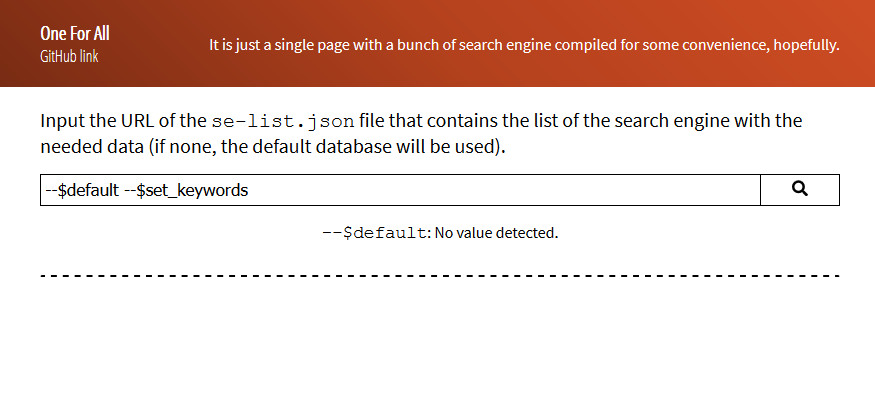
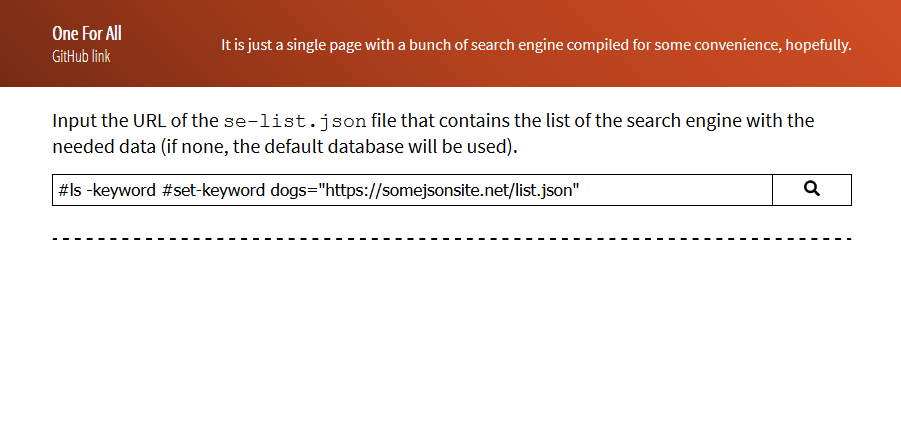
Update the command docs

diff --git a/docs/available-commands.md b/docs/available-commands.md
@@ -3,7 +3,7 @@ You can enter commands in the main input of the page as if you're using a CLI pr
 
 ![Sample of entering commands](assets/page-sample.png)
 
-Take note that valid commands must have `--$` before the main command keyword with their needed values to be separated by whitespaces.
+Take note that valid commands must have `#` before the main command keyword with their needed values to be separated by whitespaces.
 
 Also, each of the command can only be executed once with the values of the first detected valid command.
 
@@ -16,6 +16,7 @@ Aliases:
 - `set-keyword`
 - `set-kw`
 - `set-kws`
+- `set-alias`
 
 Their values need to be a keyword and the URL to be associated with delimited by an equal sign. 
 
@@ -24,13 +25,13 @@ The keyword must have only at least one alphanumeric character. You can also inc
 The URL also needs to be enclosed within quotation marks.
 
 ```
---$set-keywords books="https://jsonsite.com/foo-dogsquared/list/se-list.test.json"
+#set-keywords books="https://jsonsite.com/foo-dogsquared/list/se-list.test.json"
 ```
 
 You can also set multiple keywords at once.
 
 ```
---$set-keywords books="https://jsonsite.com/foo-dogsquared/list/se-list.test.json" moocs="https://moocsite.com/sample-list.json"
+#set-keywords books="https://jsonsite.com/foo-dogsquared/list/se-list.test.json" moocs="https://moocsite.com/sample-list.json"
 ```
 
 Once the keyword has been set, you can simply type the keyword to retrieve the JSON file associated with that keyword.
@@ -40,7 +41,7 @@ Once the keyword has been set, you can simply type the keyword to retrieve the J
 If you want to replace the associated URL of a certain keyword, simply enter the command again with the same keyword:
 
 ```
---$set-keywords books="https://someotherjsonsite.com/testnumbertwo.json"
+#set-keywords books="https://someotherjsonsite.com/testnumbertwo.json"
 ```
 
 ## `remove-keywords`
@@ -48,17 +49,38 @@ Simply removes the keyword in your setting. Disallowing you to retrieve a databa
 
 Aliases:
 - `remove-keyword`
+- `rm-keywords`
+- `rm-keyword`
 - `rm-kws`
 - `rm-kw`
+- `rm-alias`
 
 The needed value is simply either an array of keywords delimited by commas enclosed in square brackets or a bunch of whitespace-separated words, your choice.
 
 ```
---$remove-keywords [books,moocs]
---$remove-keywords books moocs
+#remove-keywords [books,moocs]
+#remove-keywords books moocs
 ```
 
 When you remove a keyword, of course, you can't retrieve a JSON from the associated URL anymore. 
+
+## `show-keywords`
+Simply shows a list of keywords that you've set.
+
+Aliases:
+- `show-keyword`
+- `show-kw`
+- `show-kws`
+- `show-alias`
+- `ls`
+
+It needs no values for it to function. 
+
+You can add the `-keyword` flag in order to show only the keywords without the associated URLs. It's quite useful in case you want a neater view on the list without all the clutter.
+
+You can also view the default database by adding the `-default` flag. Just bear in mind that you can't use two flags at the same time, only the first flag will be recognized.
+
+![rm-kw and ls Usage Example](assets/rm-kw-and-ls-usage-example.gif)
 
 ## `default`
 Sets the default JSON database to be used. The default database (when unset) is simply the `se-list.json` that is included with the repo (hopefully). The default database is also the database to be used when you enter nothing.
@@ -66,7 +88,7 @@ Sets the default JSON database to be used. The default database (when unset) is 
 The command only needs a valid URL that ends with the `.json` file extension.
 
 ```
---$default https://somejsonsite.org/notfake.json
+#default https://somejsonsite.org/notfake.json
 ```
 
 ![default usage example](assets/default-usage-example.gif)
@@ -82,5 +104,3 @@ Aliases:
 It's a boolean, which mean it only needs one of the possible values: `true` or `false`.
 
 When you've set it to true, the effect will only be in effect in your next visit. This goes in tandem with the `default` setting, bringing your user-defined default database at the start of the visit.
-
-![show-list-at-start and default usage example](assets/slas-default-usage-example.gif)
